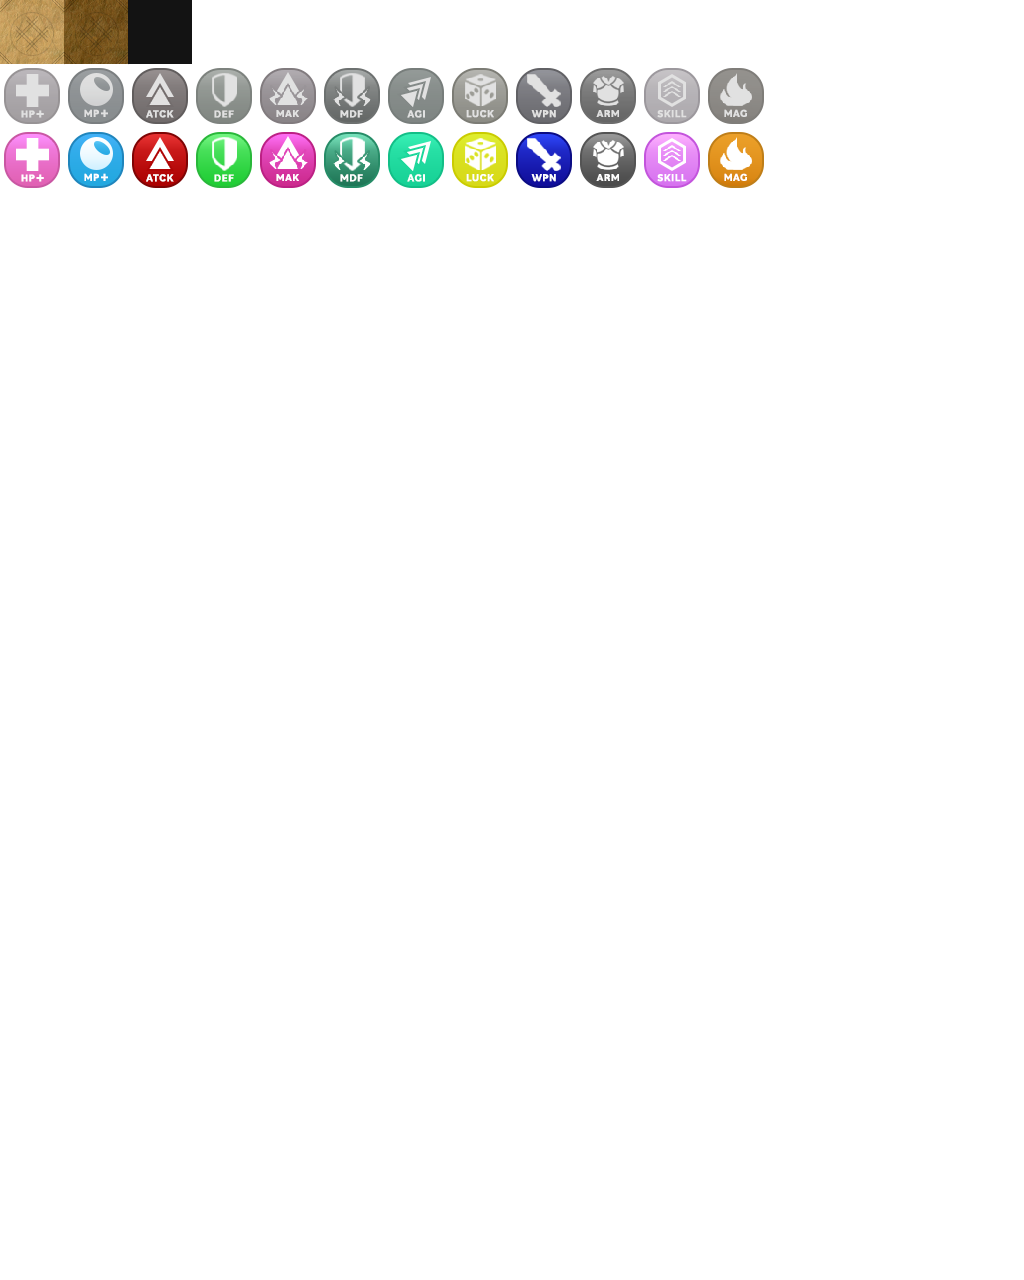
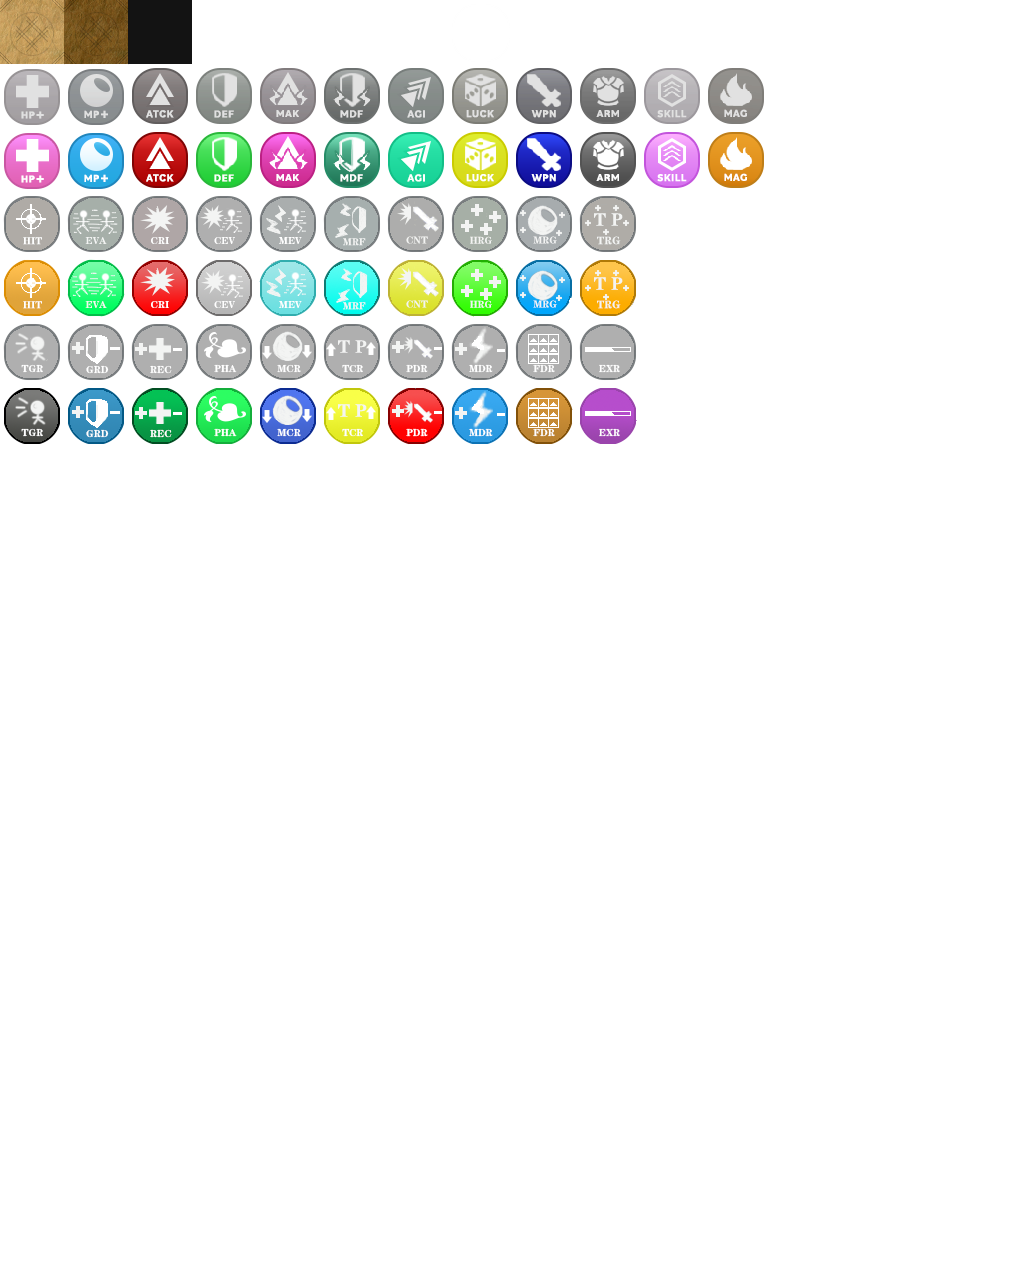
Fixing bugs with the maker and fixing the large set to work

Changed region(s): [[0.0, 0.0938, 0.625, 0.3438]]

diff --git a/Utilities/LicenseBoardMaker/mapConverter.html b/Utilities/LicenseBoardMaker/mapConverter.html
@@ -108,16 +108,16 @@
         '7,2': {cost: 0, description: "HRG", type:"xparam", target: 7, value: "", iconIndex:71, iconIndexInactive: 55, x: -1, y: -1, iconIndexBackground: -1},
         '0,3': {cost: 0, description: "MRG", type:"xparam", target: 8, value: "", iconIndex:72, iconIndexInactive: 56, x: -1, y: -1, iconIndexBackground: -1},
         '1,3': {cost: 0, description: "TRG", type:"xparam", target: 9, value: "", iconIndex:73, iconIndexInactive: 57, x: -1, y: -1, iconIndexBackground: -1},
-        '0,4': {cost: 0, description: "HIT", type:"sparam", target: 0, value: "", iconIndex:96, iconIndexInactive: 80, x: -1, y: -1, iconIndexBackground: -1},
-        '1,4': {cost: 0, description: "EVA", type:"sparam", target: 1, value: "", iconIndex:97, iconIndexInactive: 81, x: -1, y: -1, iconIndexBackground: -1},
-        '2,4': {cost: 0, description: "CRI", type:"sparam", target: 2, value: "", iconIndex:98, iconIndexInactive: 82, x: -1, y: -1, iconIndexBackground: -1},
-        '3,4': {cost: 0, description: "CEV", type:"sparam", target: 3, value: "", iconIndex:99, iconIndexInactive: 83, x: -1, y: -1, iconIndexBackground: -1},
-        '4,4': {cost: 0, description: "MEV", type:"sparam", target: 4, value: "", iconIndex:100, iconIndexInactive: 84, x: -1, y: -1, iconIndexBackground: -1},
-        '5,4': {cost: 0, description: "MRF", type:"sparam", target: 5, value: "", iconIndex:101, iconIndexInactive: 85, x: -1, y: -1, iconIndexBackground: -1},
-        '6,4': {cost: 0, description: "CNT", type:"sparam", target: 6, value: "", iconIndex:102, iconIndexInactive: 86, x: -1, y: -1, iconIndexBackground: -1},
-        '7,4': {cost: 0, description: "HRG", type:"sparam", target: 7, value: "", iconIndex:103, iconIndexInactive: 87, x: -1, y: -1, iconIndexBackground: -1},
-        '0,5': {cost: 0, description: "MRG", type:"sparam", target: 8, value: "", iconIndex:104, iconIndexInactive: 88, x: -1, y: -1, iconIndexBackground: -1},
-        '1,5': {cost: 0, description: "TRG", type:"sparam", target: 9, value: "", iconIndex:105, iconIndexInactive: 89, x: -1, y: -1, iconIndexBackground: -1},
+        '0,4': {cost: 0, description: "TGR", type:"sparam", target: 0, value: "", iconIndex:96, iconIndexInactive: 80, x: -1, y: -1, iconIndexBackground: -1},
+        '1,4': {cost: 0, description: "GRD", type:"sparam", target: 1, value: "", iconIndex:97, iconIndexInactive: 81, x: -1, y: -1, iconIndexBackground: -1},
+        '2,4': {cost: 0, description: "REC", type:"sparam", target: 2, value: "", iconIndex:98, iconIndexInactive: 82, x: -1, y: -1, iconIndexBackground: -1},
+        '3,4': {cost: 0, description: "PHA", type:"sparam", target: 3, value: "", iconIndex:99, iconIndexInactive: 83, x: -1, y: -1, iconIndexBackground: -1},
+        '4,4': {cost: 0, description: "MCR", type:"sparam", target: 4, value: "", iconIndex:100, iconIndexInactive: 84, x: -1, y: -1, iconIndexBackground: -1},
+        '5,4': {cost: 0, description: "TCR", type:"sparam", target: 5, value: "", iconIndex:101, iconIndexInactive: 85, x: -1, y: -1, iconIndexBackground: -1},
+        '6,4': {cost: 0, description: "PDR", type:"sparam", target: 6, value: "", iconIndex:102, iconIndexInactive: 86, x: -1, y: -1, iconIndexBackground: -1},
+        '7,4': {cost: 0, description: "MDR", type:"sparam", target: 7, value: "", iconIndex:103, iconIndexInactive: 87, x: -1, y: -1, iconIndexBackground: -1},
+        '0,5': {cost: 0, description: "FDR", type:"sparam", target: 8, value: "", iconIndex:104, iconIndexInactive: 88, x: -1, y: -1, iconIndexBackground: -1},
+        '1,5': {cost: 0, description: "EXR", type:"sparam", target: 9, value: "", iconIndex:105, iconIndexInactive: 89, x: -1, y: -1, iconIndexBackground: -1},
     }
 
     function translateMapDataToLicenses(mapData){

diff --git a/Plugins/Gimmer_LicenseBoard/Gimmer_LicenseBoard.js b/Plugins/Gimmer_LicenseBoard/Gimmer_LicenseBoard.js
@@ -429,16 +429,16 @@ DataManager.onLoad = function(object){
         ];
 
         $dataSystem.terms.sparams = [
-            lbParams["Label For Target rate"],
+            lbParams["Label For Target Rate"],
             lbParams["Label For Guard effect rate"],
             lbParams["Label For Recovery effect rate"],
             lbParams["Label For Pharmacology"],
-            lbParams["Label For Mp Cost rate"],
-            lbParams["Label For Tp Charge rate"],
-            lbParams["Label For Physical Damage rate"],
-            lbParams["Label For Magical Damage rate"],
-            lbParams["Label For Floor Damage rate"],
-            lbParams["Label For Experience rate"],
+            lbParams["Label For Mp Cost Rate"],
+            lbParams["Label For Tp Charge Rate"],
+            lbParams["Label For Physical Damage Rate"],
+            lbParams["Label For Magical Damage Rate"],
+            lbParams["Label For Floor Damage Rate"],
+            lbParams["Label For Experience Rate"],
         ];
     }
 }
@@ -1261,7 +1261,7 @@ Window_LicenseSuccess.prototype.initialize = function(actor){
 Window_LicenseSuccess.prototype.refresh = function(){
     this.contents.clear();
     if(this._item){
-        this.drawIcon(this._item.iconIndex - 32, this.width / 2 - (this._iconWidth / 2), 10);
+        this.drawIcon(this._item.iconIndex - 32, this.width / 2 - (this._iconWidth / 2), 10, this.getSuccessIconRow());
         let textX = 0;
         let text = this._item.claimText(this._actor);
         let textY = this.height - this.fittingHeight(text.length);
@@ -1272,13 +1272,26 @@ Window_LicenseSuccess.prototype.refresh = function(){
     }
 }
 
+Window_LicenseSuccess.prototype.getSuccessIconRow = function(){
+    let row = 0;
+    if(this._item){
+        if(this._item.type === 'xparam'){
+            row = 1;
+        }
+        else if(this._item.type === 'sparam'){
+            row = 2;
+        }
+    }
+    return row;
+}
+
 //Draw the success icon
-Window_LicenseSuccess.prototype.drawIcon = function(iconIndex,x,y){
+Window_LicenseSuccess.prototype.drawIcon = function(iconIndex,x,y, row){
     var bitmap = ImageManager.loadSystem('LargeLicenseIconSet');
     var pw = this._iconWidth;
     var ph = this._iconHeight;
     var sx = iconIndex % 16 * pw;
-    var sy = 0;
+    var sy = row * ph;
     this.contents.blt(bitmap, sx, sy, pw, ph, x, y);
 }
 

diff --git a/Plugins/Gimmer_LicenseBoard/README.md b/Plugins/Gimmer_LicenseBoard/README.md
@@ -16,6 +16,10 @@ You will require the following items:
 * data/Licenses.json: a json list of all the licenses. An example file is provided.
 
 ##### Setup Required
+Set the note tag for the class of your heroes: &lt;BoardName:default> (change default to whatever you name your own board)
+
+You can have more than one board in the database, and set them individually on each class. 
+
 Characters will start at license point 0,0 automatically at the beginning of a new game.
 
 To change this, add in &lt;StartingLicensePosition:x,y> in a character's classes note area.
@@ -23,6 +27,8 @@ To change this, add in &lt;StartingLicensePosition:x,y> in a character's classes
 A character will also start with no licenses.
 
 To change this, add in &lt;StartingLicenses:x,y|x2,y2|x3,y3> to the classes note section.
+
+
 **Note: a character can see every node around the ones they own, so if you start them with random nodes around the board it may be a bit disjointed**
 
 Classes level 1 stats and skill lists are still used as the base stats of a character, as are any existing "Can equip" settings for a class.
@@ -88,3 +94,4 @@ More Gimmer_ plugins at: https://github.com/gimmer/RPG-Maker-MV-Plugins
 
 ##Credits:
 [Codapill](codapill.com) for all graphical assets provided!
+[xiamumomo]() for the updated regulra and large iconset to support for xparams and sparams!
